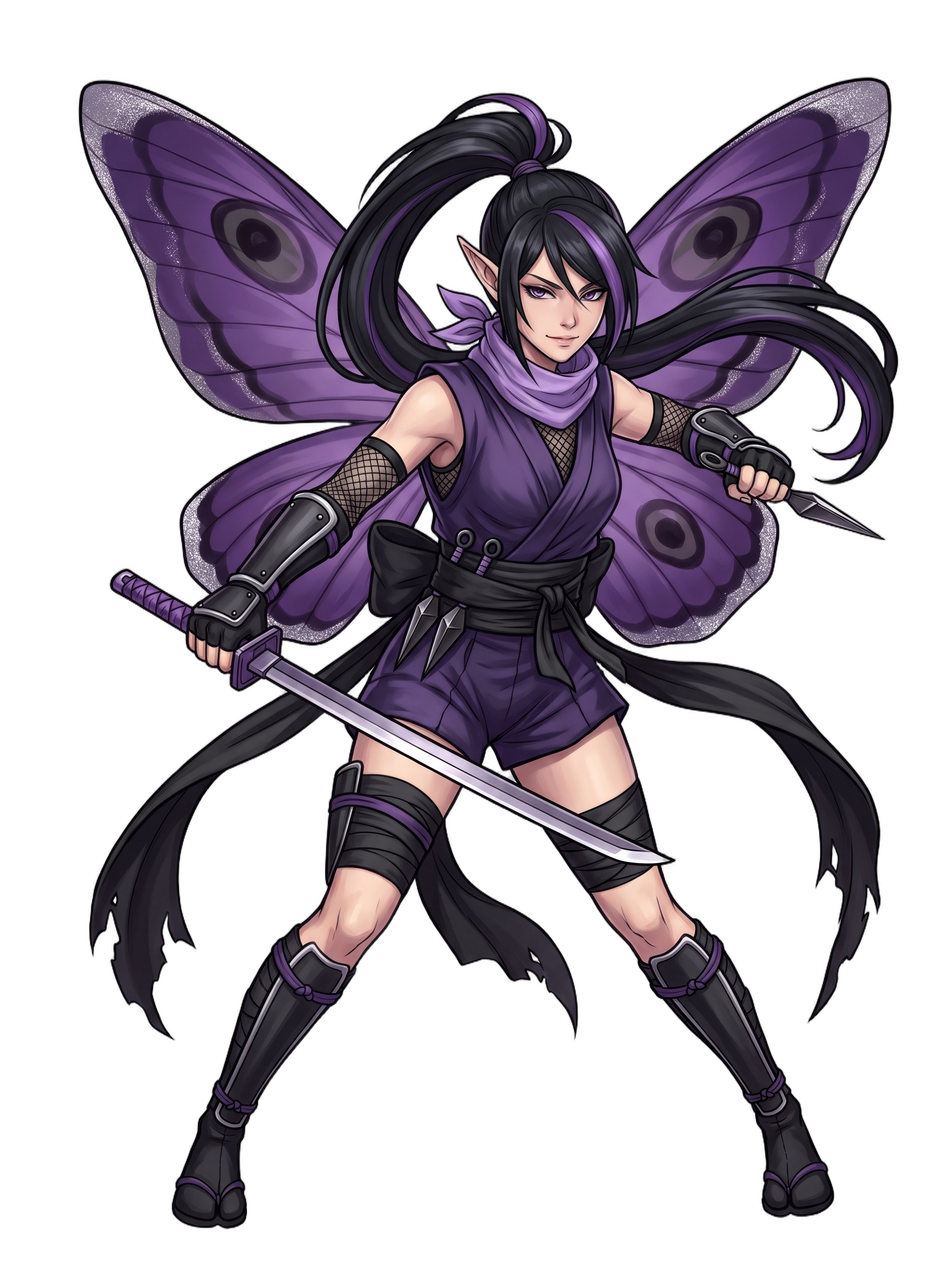
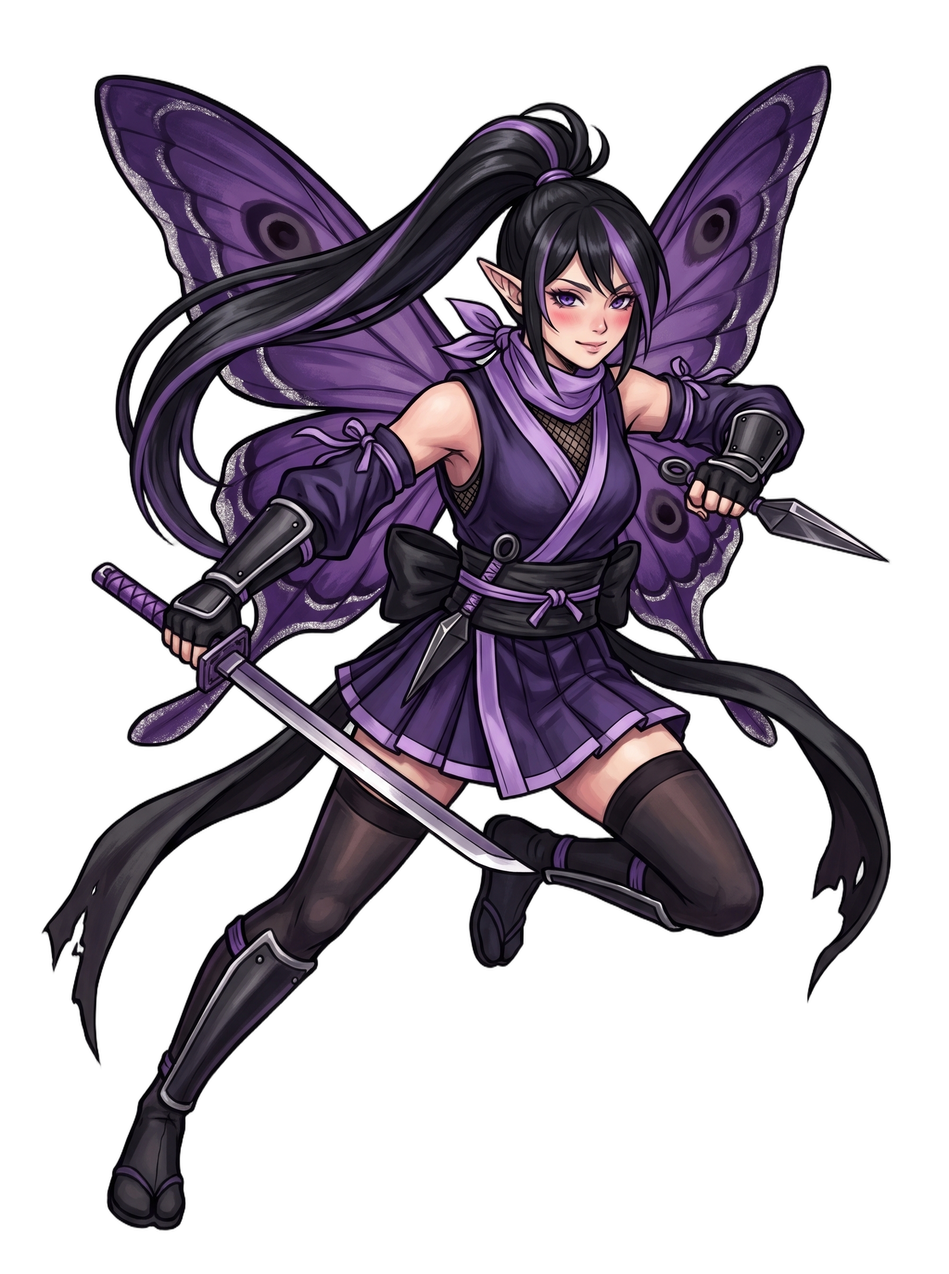
동료 FACE 블록·판타지 각색 도입 및 컷인 8종 확정
- 동료 매력 개선: 공통 FACE 블록(FACE_FEMALE/FACE_MALE) 신설, 원칙 1에 판타지 각색(가벼운 실루엣, 가챠 일러스트 수준 노출) 추가
- 비요른 제외 동료 블록 재작성, 카스미·에이다·록사나 컷인 재생성
- 시그리드를 남성 비요른(bjorn)으로 변경 (성비 8:3, 기획서 이름 반영)
- 아이아스를 20대 후반 장발 미남으로 변경
- 컷인 확정: 카스미, 에이다, 비요른, 록사나, 카밀라, 카탈리나, 아이아스, 에이린
- 카밀라 복장 테스트 이미지 및 화풍 가이드 검증 기록 추가

diff --git a/docs/art_prompts/partners.md b/docs/art_prompts/partners.md
@@ -10,25 +10,27 @@
 ## 1. 외형 컨셉 원칙
 
 1. **직업 + 문화권 복식 모티프:** 동료마다 판타지 직업 하나와 실제 역사·문화권의 복식 모티프 하나를 부여한다 (주인공 = 프랑스 경기병). 모티프는 두루뭉술하게 쓰지 않고 고유 복식·소품 명칭(오비, 카프탄, 코코시닉, 호플론 등)을 프롬프트에 직접 써서 컨셉을 극대화한다. 직업과 모티프는 서로 중복되지 않게 하며, 실제 신앙의 성물은 소품으로 쓰지 않는다.
+   - **판타지 각색 (2026-11-10 추가):** 복식을 고증대로 재현하지 않는다. 모티프는 한눈에 읽히는 대표 복식·소품 2~3개로만 살리고, 실루엣은 짧고 가볍게(바닥 길이 → 무릎 위, 어깨·팔 노출, 니삭스·오버니 부츠로 다리 라인), 소재는 비단·시폰·레이스 위주로 하며, 요정 포인트(꽃잎형 치맛단, 리본, 덩굴 장식 등)를 1~2개 넣는다. 노출 수위는 모바일 가챠 일러스트 수준(어깨, 팔, 허벅지)으로 한다. OUTFIT 첫 문장은 `Wearing a fantasy-adapted ... outfit:` 형태로 쓴다. 에이다(작고 앳된 체형)는 노출을 다른 동료보다 낮게 유지하고, 남성 동료는 노출을 늘리지 않는다.
 2. **스킬의 시각화:** 스킬 효과가 직업, 소품, 복장에서 바로 읽히도록 한다.
 3. **날개 종류 전원 상이:** 전투 화면은 3인 백뷰이므로 날개 형태와 머리/모자 실루엣만으로 식별 가능해야 한다.
 4. **등급 차등:** 5성은 4성보다 장식과 날개를 크고 화려하게 한다.
 5. **공통 요정 특징:** 전원 길고 뾰족한 요정 귀. 카밀라는 박쥐형 막날개를 가진 다른 요정 종족이다.
-6. **성비:** 캐릭터 수집형 게임 특성을 고려하여 여성 9 : 남성 2 (남성: 아이아스, 알렉세이).
+6. **성비:** 캐릭터 수집형 게임 특성을 고려하여 여성 8 : 남성 3 (남성: 비요른, 아이아스, 알렉세이).
 7. **망토 금지 (가이드 규칙 10):** 어깨/목에서 늘어지는 망토 대신 "등 처리" 칸의 방식으로 표현한다.
+8. **FACE 블록 (2026-11-10 추가):** 가챠 캐릭터의 매력을 위해 IDENTITY 뒤에 공통 FACE 블록(3장)을 넣어 애니풍의 앳된 미형 얼굴로 통일한다. 나이는 IDENTITY에 쓰며 여성 동료는 `a young adult in her early twenties`를 기본으로 한다. IDENTITY에는 `Sharp`, `narrow`, `aristocratic` 등 얼굴을 성숙하게 만드는 단어를 쓰지 않고, 성격은 표정으로만 표현한다. 장년 컨셉인 비요른은 FACE 블록을 적용하지 않는다. (아이아스는 장년 컨셉으로 시작했으나 2026-11-10 20대 후반 미남으로 변경하여 FACE_MALE 적용)
 
 ## 2. 동료 목록
 
 | 동료 (영문명) | 등급 | 색상 / 속성 | 성별 / 체형 | 직업 | 복식 모티프 | 스킬 연결 | 날개 | 등 처리 | 백뷰 식별 포인트 |
 |---|---|---|---|---|---|---|---|---|---|
-| 카스미 (`kasumi`) | 5성 | 보라 / 심연 | 여 / 날렵 | 그림자 암살자 | 일본 쿠노이치 | 즉사 = 암살, 첫 Miss 무효 = 그림자 회피 | 짙은 보라 나방 | 허리 뒤 긴 오비 띠 (찢어진 검은 천) | 보라 브릿지 긴 포니테일, 찢어진 오비 띠 |
+| 카스미 (`kasumi`) | 5성 | 보라 / 심연 | 여 / 날렵 | 그림자 암살자 | 일본 쿠노이치 | 즉사 = 암살, 첫 Miss 무효 = 그림자 회피 | 짙은 보라 나방 | 허리 뒤 긴 오비 띠 (찢어진 검은 천) | 보라 브릿지가 섞인 긴 포니테일, 찢어진 오비 띠 |
 | 에이다 (`ada`) | 5성 | 황금 / 시간 | 여 / 작고 앳됨 | 시간술사 | 빅토리아 시대 시계 장인 | 타이머 연장 = 모래시계 지팡이, 회중시계 | 톱니 문양 금빛 나비 | 연미복 자락, 버슬 스커트 | 양갈래 올림머리 + 황동 고글, 모래시계 지팡이 |
-| 시그리드 (`sigrid`) | 5성 | 진홍 / 화염 | 여 / 근육질 장신 | 화염 대장장이 | 노르드(바이킹) 대장장이 | 추가 피해 = 벼려낸 무기, 치명타 = 망치 일격 | 불씨 무늬 진홍 잠자리 | 없음 (앞치마 끈) | 굵게 땋은 붉은 머리, 털 깃, 어깨에 멘 거대 망치 |
+| 비요른 (`bjorn`) | 5성 | 진홍 / 화염 | 남 / 근육질 장신 | 화염 대장장이 | 노르드(바이킹) 대장장이 | 추가 피해 = 벼려낸 무기, 치명타 = 망치 일격 | 불씨 무늬 진홍 잠자리 | 털 조끼 (어깨~허리, 날개 뿌리 가림 여부는 백뷰 생성 시 확인) | 정수리를 따라 땋은 붉은 머리, 회색 털 조끼, 어깨에 멘 거대 망치 |
 | 록사나 (`roxana`) | 4성 | 분홍 / 관통 | 여 / 늘씬 | 가시장미 궁수 | 페르시아 궁수 | 관통 = 화살 | 장미 꽃잎형 나비 | 허리 장식끈, 옆트임 카프탄 자락 | 터번형 모자 + 높은 포니테일, 화살통 |
-| 카밀라 (`camilla`) | 4성 | 암적 / 흡혈 | 여 / 마른 장신 | 흡혈 귀족 | 동유럽 보야르 귀족 | 흡혈, 회복 = 크리스털 잔 | 검붉은 박쥐형 막날개 | 날개 망토 (막날개를 어깨에 두름) | 코코시닉 머리장식, 망토처럼 두른 막날개 |
+| 카밀라 (`camilla`) | 4성 | 암적 / 흡혈 | 여 / 마른 장신 | 흡혈 귀족 | 동유럽 보야르 귀족 | 흡혈, 회복 = 크리스털 잔 | 검붉은 박쥐형 막날개 | 없음 (막날개를 등 뒤로 크게 펼침) | 코코시닉 머리장식, 크게 펼친 막날개 |
 | 카탈리나 (`catalina`) | 4성 | 하늘 / 질풍 | 여 / 가벼움 | 바람 항해사 | 대항해시대 스페인 갈레온 항해사 | 판정 시간 = 순풍, 콤보 보존 = 아스트롤라베 | 길고 가는 하늘색 잠자리 | 스카프 | 깃털 꽂은 모리온 투구, 휘날리는 긴 스카프 |
-| 아이아스 (`aias`) | 4성 | 강철 / 수호 | 남 / 장년, 최대 거구 | 성기사 | 고대 그리스 호플리트 | 기절, 1회 생존 = 수호의 방패 | 강철색 딱정벌레 겉날개 | 프테루게스 (허리 아래 가죽 띠 치마) | 가로 볏 코린트식 투구, 거대 원형 방패 |
-| 에이린 (`eirin`) | 4성 | 녹색 / 치유 | 여 / 단정 | 치유 사제 | 켈트 드루이드 | 회복, 실드 = 약초와 잎사귀 지팡이 | 잎맥 녹색 날개 (나뭇잎벌레형) | 몸에 맞는 로브 | 겨우살이 화관 + 짧은 베일, 땋은 머리 |
+| 아이아스 (`aias`) | 4성 | 강철 / 수호 | 남 / 20대 후반 미남 근육질, 최대 거구 | 성기사 | 고대 그리스 호플리트 | 기절, 1회 생존 = 수호의 방패 | 강철색 딱정벌레 겉날개 | 프테루게스 (허리 아래 가죽 띠 치마) | 세로 볏 코린트식 투구 + 투구 아래로 내려오는 장발, 거대 원형 방패 |
+| 에이린 (`eirin`) | 4성 | 녹색 / 치유 | 여 / 단정 | 치유 사제 | 켈트 드루이드 | 회복, 실드 = 약초와 잎사귀 지팡이 | 잎맥 녹색 날개 (나뭇잎벌레형) | 시폰 소매, 잎사귀 모양 치맛단 | 겨우살이 화관 + 짧은 베일, 땋은 머리 |
 | 셰헤라자드 (`scheherazade`) | 4성 | 비취 / 충전 | 여 / 활발 | 음유시인 (무희) | 아랍 무희 | 피버 충전 = 춤과 심벌즈로 사기 고양 | 비취색 풀잠자리 | 머리띠 베일, 동전 허리 스카프 | 동전 머리띠 베일, 동전 허리 스카프, 하렘 팬츠 |
 | 알렉세이 (`aleksei`) | 4성 | 빙청 / 빙결 | 남 / 냉정한 청년 | 빙결 마법사 | 제정 러시아 궁정 마법사 | 결빙, 감속 = 얼음 마법 | 눈꽃 결정 무늬 나방 | 긴 코트 자락 | 원통형 털모자, 털 장식 긴 코트, 얼음 결정 지팡이 |
 | 다온 (`daon`) | 4성 | 무지개 / 공명 | 여 / 우아 | 프리즘 정령술사 | 한국 한복 선녀 | 동료 에너지 주입 = 정령의 힘 분배 | 무지갯빛 모르포 나비 | 팔에 걸친 비단 띠, 늘어진 옷고름 | 매우 긴 머리 + 화관, 색동 소매, 비단 띠, 주위를 도는 프리즘 결정 |
@@ -37,19 +39,32 @@
 
 ## 3. 프롬프트 블록
 
-블록 조합: `[LAYER_SPRITE_HEAD] + [VIEW] + [IDENTITY] + [OUTFIT] + [POSE] + [PALETTE] + [STYLE_BASE] + [LAYER_SPRITE_TAIL]`
+블록 조합: `[LAYER_SPRITE_HEAD] + [VIEW] + [IDENTITY] + [FACE] + [OUTFIT] + [POSE] + [PALETTE] + [STYLE_BASE] + [LAYER_SPRITE_TAIL]`
 - `cutin`: VIEW_ILLUST + POSE_CUTIN (첨부: `fairy_base.png`, 지시문: 화풍 참고)
 - `battle_back`: VIEW_BATTLE_BACK + POSE_BATTLE_BACK (첨부: 확정된 `cutin`, 지시문: 같은 캐릭터)
+- FACE는 캐릭터별 블록에 적힌 종류를 쓴다. 비요른은 FACE 없이 조합한다.
+
+**FACE_FEMALE** (여성 동료 공통)
+```
+Youthful beautiful face with cute Japanese anime-style features, large expressive eyes with long dark eyelashes, small nose, soft rounded jawline, smooth flawless skin with no wrinkles or harsh facial lines, rosy blushed cheeks, the same face rendering style as the attached image.
+```
+**FACE_MALE** (청년 남성 동료, 아이아스·알렉세이)
+```
+Handsome youthful face with Japanese anime-style bishonen features, refined expressive eyes with long dark eyelashes, straight slim nose, slim smooth jawline, smooth flawless skin with no wrinkles or harsh facial lines, the same face rendering style as the attached image.
+```
+- 2026-11-10 카밀라 테스트에서 FACE_FEMALE(당시 나이 문구 포함) 적용 시 얼굴이 크게 앳되고 매력적으로 개선됨을 확인. 나이는 캐릭터마다 다르므로 IDENTITY로 분리했다.
 
 ### 3.1 카스미 (`kasumi`) - 그림자 암살자 / 일본 쿠노이치
 
 **IDENTITY**
 ```
-A lean and agile young female fairy, 7 heads tall. Sharp beautiful features, cool narrow deep violet eyes, faint confident smirk, long pointed elf ears. Black hair with a single violet streak, tied in a long high ponytail. Four large deep violet moth wings with dark eyespot patterns and silver-dusted edges.
+A lean and agile female fairy, a young adult in her early twenties, 7 heads tall. Cool deep violet eyes, faint confident smile, long pointed elf ears. Black hair with several violet streaks through the bangs and ponytail, tied in a long high ponytail with a violet hair tie. Four large deep violet moth wings with dark eyespot patterns and silver-dusted edges.
 ```
+**FACE**: FACE_FEMALE
+
 **OUTFIT**
 ```
-Wearing a Japanese kunoichi (female ninja) outfit: a short dark violet kimono-style wrap top with sleeveless shoulders, fine black kusari chainmail mesh visible at the collar and upper arms, a black obi sash tied at the waist with a large bow knot at the back and long tattered black obi tails flowing down from the back of her waist, black tekko arm guards with silver plates over black fingerless gloves, a lavender face cloth mask pulled down around her neck and knotted at the side, dark violet short hakama-style shorts, black leg wraps with kyahan shin guards and black split-toe tabi boots, several kunai tucked into the obi. Weapons: a short straight ninjato with a violet-wrapped grip and a square guard, and a kunai. No cape or cloak on the shoulders, wings fully visible.
+Wearing a fantasy-adapted Japanese kunoichi (female ninja) outfit: a short sleeveless dark violet kimono-style wrap top with lavender trim, fine black kusari chainmail mesh visible at the collar edge, detached dark violet kimono sleeves tied with lavender ribbon bows at the upper arms and wrists, a black obi sash tied at the waist with a lavender cord knotted at the front, a large bow knot at the back and long tattered black obi tails flowing down from the back of her waist, a very short dark violet pleated hakama-style skirt with lavender trim, black tekko arm guards with silver plates over black fingerless gloves, a lavender face cloth mask pulled down around her neck and knotted at the side, black thigh-high stockings with knee-high black kyahan shin guards with silver plates and black split-toe tabi boots, several kunai tucked into the obi. Weapons: a short straight ninjato with a violet-wrapped grip and a square guard, and a kunai. No cape or cloak on the shoulders, wings fully visible.
 ```
 **PALETTE**
 ```
@@ -57,22 +72,24 @@ Color palette: deep violet, black, silver, lavender.
 ```
 **POSE_CUTIN**
 ```
-Pose: lunging forward low toward the viewer with the ninjato held in reverse grip slashing out, the other hand flicking a kunai, ponytail and long obi tail sweeping.
+Pose: lunging forward low toward the viewer with the ninjato held in a forward grip slashing out, the other hand flicking a kunai, ponytail and long obi tail sweeping.
 ```
 **POSE_BATTLE_BACK**
 ```
-Pose: crouched ready facing away from the viewer toward the enemy, ninjato in reverse grip, long black ponytail with violet streak, long tattered obi tail and violet moth wings with eyespots clearly visible.
+Pose: crouched ready facing away from the viewer toward the enemy, ninjato in hand, long black ponytail with violet streaks, long tattered obi tail and violet moth wings with eyespots clearly visible.
 ```
 
 ### 3.2 에이다 (`ada`) - 시간술사 / 빅토리아 시대 시계 장인
 
 **IDENTITY**
 ```
-A petite youthful girl fairy, 5 heads tall. Round curious golden eyes, cheerful confident smile, brass clockmaker goggles with amber tinted lenses pushed up on her forehead, long pointed elf ears. Honey-gold hair in two buns with short loose tails. Four golden butterfly wings with intricate clockwork gear filigree patterns, pale gold tinted.
+A petite youthful girl fairy, 5 heads tall. Round curious golden eyes, cheerful confident smile, brass clockmaker goggles with amber tinted lenses pushed up on her forehead, long pointed elf ears. Honey-gold hair in two buns with short loose tails. Four opaque metallic golden butterfly wings with intricate embossed clockwork gear filigree patterns, rich golden yellow.
 ```
+**FACE**: FACE_FEMALE
+
 **OUTFIT**
 ```
-Wearing a Victorian-era clockmaker outfit: a short midnight blue tailcoat jacket with brass gear-shaped buttons and gold star embroidery, coat tails at the back, a gold brocade waistcoat over a pale yellow high-collared blouse with a midnight blue ribbon bow tie, a brown leather tool apron with small pockets holding tiny screwdrivers and gears, a ruffled midnight blue bustle skirt, striped stockings and buckled brown boots. Props: a brass staff topped with a large ornate hourglass with golden sand encircled by brass orrery rings, and a brass pocket watch on a long gold chain at her waist. No cape or cloak on the shoulders, wings fully visible.
+Wearing a fantasy-adapted Victorian-era clockmaker outfit: a cropped midnight blue tailcoat jacket with short puffed sleeves, brass gear-shaped buttons, gold star embroidery on the lapels, coat tails at the back, detached midnight blue wrist cuffs with gold vine and star embroidery and gear-shaped buttons, a gold brocade waistcoat over a pale yellow high-collared blouse with a midnight blue ribbon bow tie, a small brown leather tool apron with a front pocket holding a tiny screwdriver, a wrench and small gears, a short ruffled midnight blue bustle skirt above the knees with a honey yellow lace petticoat, midnight blue and grey striped stockings and knee-high brown boots with triple side buckles and small gear ornaments. Props: a brass staff topped with a large ornate hourglass with golden sand encircled by brass orrery rings, an open brass pocket watch on a long gold chain, and a second brass pocket watch hanging from a chain at her waist. No cape or cloak on the shoulders, wings fully visible.
 ```
 **PALETTE**
 ```
@@ -87,15 +104,15 @@ Pose: floating in mid-air raising the hourglass staff high with one hand, holdin
 Pose: floating facing away from the viewer toward the enemy, hourglass staff held up, tailcoat tails and bustle skirt, hair buns with goggles and golden gear-patterned wings clearly visible.
 ```
 
-### 3.3 시그리드 (`sigrid`) - 화염 대장장이 / 노르드(바이킹) 대장장이
+### 3.3 비요른 (`bjorn`) - 화염 대장장이 / 노르드(바이킹) 대장장이
 
 **IDENTITY**
 ```
-A tall, muscular, broad-shouldered female fairy in her thirties, 7.5 heads tall. Confident soot-smudged face with freckles, a small scar on one cheek, bold grin, amber eyes, long pointed elf ears. Fiery red hair in a thick braid. Four large crimson dragonfly wings with ember orange spots.
+A tall, muscular, broad-shouldered male fairy in his thirties, 7.5 heads tall. Confident soot-smudged face with freckles, a small scar on one cheek, a full red beard with a long single braid hanging from the chin, bold grin, amber eyes, long pointed elf ears. Fiery red hair in a thick braid running along the top of his head to the back. Four large crimson dragonfly wings with ember orange spots.
 ```
 **OUTFIT**
 ```
-Wearing a Norse Viking blacksmith outfit: a sleeveless crimson wool tunic with woven knotwork trim, a thick grey wolf fur collar around her neck fastened with bronze oval brooches, a heavy dark brown leather blacksmith apron with brass rivets, bronze arm rings and leather bracers engraved with Norse runes, dark grey trousers with cross-wrapped leg bindings and fur-lined boots, a tool belt with tongs and chisels. Weapon: a huge two-handed forge hammer with a black iron head engraved with ember orange Norse runes. No cape or cloak on the shoulders, wings fully visible.
+Wearing a Norse Viking blacksmith outfit: a sleeveless crimson wool tunic with woven knotwork trim at the collar and hem, a thick sleeveless grey wolf fur vest over the shoulders reaching down to the waist, fastened at the chest with two bronze oval brooches, a heavy dark brown leather blacksmith apron with brass rivets and a riveted front pocket, a bronze knotwork arm ring on the upper arm and leather bracers engraved with Norse runes, baggy dark grey trousers with cross-wrapped leg bindings and fur-trimmed boots, a wide riveted leather tool belt with tongs and a chisel tucked into the apron pocket. Weapon: a huge two-handed forge hammer with a black iron head engraved with ember orange Norse runes. No cape or cloak on the shoulders, wings fully visible.
 ```
 **PALETTE**
 ```
@@ -107,18 +124,20 @@ Pose: swinging the huge forge hammer overhead in both hands, about to strike dow
 ```
 **POSE_BATTLE_BACK**
 ```
-Pose: standing ready facing away from the viewer toward the enemy, huge forge hammer resting on her shoulder, thick red braid, grey fur collar, apron straps crossing her back and crimson dragonfly wings clearly visible.
+Pose: standing ready facing away from the viewer toward the enemy, huge forge hammer resting on his shoulder, thick red braid along the top of his head, grey wolf fur vest and crimson dragonfly wings clearly visible.
 ```
 
 ### 3.4 록사나 (`roxana`) - 가시장미 궁수 / 페르시아 궁수
 
 **IDENTITY**
 ```
-A tall and elegant female fairy, 7 heads tall. Confident smile, rose pink eyes, long pointed elf ears. Long wavy rose pink hair in a high ponytail. Four layered rose-petal shaped butterfly wings in shades of pink and deep magenta.
+A tall and slender female fairy, a young adult in her early twenties, 7 heads tall. Confident smile, rose pink eyes, long pointed elf ears. Long wavy rose pink hair in a high ponytail. Four layered rose-petal shaped butterfly wings in shades of pink and deep magenta.
 ```
+**FACE**: FACE_FEMALE
+
 **OUTFIT**
 ```
-Wearing a Persian Safavid-era archer outfit: a fitted deep rose silk kaftan coat embroidered with gold rose garden and arabesque patterns, split at the sides below the waist, magenta salwar trousers tucked into tall pointed brown leather boots, a gold-trimmed magenta sash with long flowing ends tied at the waist, a small rose turban-style cap with a gold jewel and a pink feather wrapped around the base of her high ponytail, a carved archer's thumb ring and a leather bracer, an ornate gold-tooled leather quiver of rose-fletched arrows on her back. Weapon: a recurved composite bow lacquered deep rose with gold rose motifs and thorned vine carvings. No cape or cloak on the shoulders, wings fully visible.
+Wearing a fantasy-adapted Persian Safavid-era archer outfit: a fitted sleeveless deep rose silk kaftan bodice with a high stand collar, embroidered with gold rose garden and arabesque patterns, opening below the waist into long split kaftan panels at the sides and back with a rose-petal scalloped hem, short magenta silk shorts, tall pointed brown leather boots above the knees with V-cut tops, a gold-trimmed magenta sash with long flowing ends tied at the waist, a small rose turban-style cap with a gold jewel and a pink feather wrapped around the base of her high ponytail, a carved archer's thumb ring and leather bracers on both forearms with an extra gold arm cuff on the bow arm, an ornate gold-tooled leather quiver of rose-fletched arrows hanging at her left hip, and a matching gold-tooled leather bow case hanging at her right hip. Weapon: a recurved composite bow lacquered deep rose with gold rose motifs and thorned vine carvings. No cape or cloak on the shoulders, wings fully visible.
 ```
 **PALETTE**
 ```
@@ -126,22 +145,24 @@ Color palette: rose pink, deep magenta, gold, brown leather.
 ```
 **POSE_CUTIN**
 ```
-Pose: drawing the recurved bow at full draw aimed toward the viewer, one eye narrowed, ponytail and sash ends swinging.
+Pose: drawing the recurved bow at full draw aimed to the side, winking with one eye closed, ponytail and sash ends swinging.
 ```
 **POSE_BATTLE_BACK**
 ```
-Pose: standing facing away from the viewer toward the enemy, drawing the recurved bow, quiver on her back, turban-style cap with high ponytail, split kaftan hem and rose-petal wings clearly visible.
+Pose: standing facing away from the viewer toward the enemy, drawing the recurved bow, quiver at her hip, turban-style cap with high ponytail, split kaftan hem and rose-petal wings clearly visible.
 ```
 
 ### 3.5 카밀라 (`camilla`) - 흡혈 귀족 / 동유럽 보야르 귀족
 
 **IDENTITY**
 ```
-A slender, tall, pale aristocratic female fairy, 7.5 heads tall. Sharp elegant beauty, crimson eyes, sly smile showing small fangs, long pointed elf ears. Long straight black hair with dark red tips. Two large dark crimson bat-like membrane wings with delicate fairy-like ribs, opaque, draped around her shoulders like a high-collared cloak.
+A slender, tall, pale female fairy, a young adult in her early twenties, 7.5 heads tall. Crimson eyes, playful sly smile showing small fangs, long pointed elf ears. Long straight black hair with dark red streaks and tips. Two large dark crimson bat-like membrane wings with delicate fairy-like ribs, opaque, spread wide behind her.
 ```
+**FACE**: FACE_FEMALE
+
 **OUTFIT**
 ```
-Wearing an Eastern European boyar noblewoman outfit: a long dark blood red brocade coat dress with gold thread embroidery and a high stiff collar trimmed with black sable fur, long hanging false sleeves slit open at the elbow, a row of ruby and gold buttons down the front, a black silk under-dress, a tall jeweled kokoshnik headdress in black and gold set with rubies and hanging garnet bead strands, long black gloves and black riding boots. Props: a crystal goblet filled with dark red liquid and an ebony cane sword with a ruby pommel. No separate cape; only her bat wings are draped around her shoulders.
+Wearing a fantasy-adapted Eastern European boyar noblewoman outfit: an off-the-shoulder dark blood red silk mini dress with a fitted gold-embroidered brocade corset bodice, a row of ruby and gold buttons down the front, a black sable fur trim along the neckline, short red puffed sleeves under the fur trim, a short layered high-low skirt with a black lace underlayer and scalloped hem, detached long hanging sleeves of sheer black chiffon, a tall jeweled kokoshnik headdress in black and gold set with rubies and hanging garnet bead strands, a ruby drop pendant chain on her forehead, crimson painted nails, black thigh-high stockings with red ribbon garters and garter straps, black heeled ankle boots with gold trim. Props: a crystal goblet filled with dark red liquid and a long straight sword with a ruby-studded cross guard. No cape or cloak on the shoulders, wings fully visible.
 ```
 **PALETTE**
 ```
@@ -149,22 +170,24 @@ Color palette: blood red, black, gold, ruby.
 ```
 **POSE_CUTIN**
 ```
-Pose: raising the crystal goblet in an elegant toast toward the viewer with a sly smile, other hand drawing the cane sword halfway, bat wings draped around her shoulders.
+Pose: raising the crystal goblet in an elegant toast toward the viewer with a sly smile, other hand holding the long sword lowered at her side, bat wings spread wide behind her.
 ```
 **POSE_BATTLE_BACK**
 ```
-Pose: standing facing away from the viewer toward the enemy, cane sword in hand, tall kokoshnik headdress, long black hair, bat-like membrane wings spread wide from her shoulders clearly visible.
+Pose: standing facing away from the viewer toward the enemy, long sword in hand, tall kokoshnik headdress, long black hair, bat-like membrane wings spread wide from her shoulders clearly visible.
 ```
 
 ### 3.6 카탈리나 (`catalina`) - 바람 항해사 / 대항해시대 스페인 갈레온 항해사
 
 **IDENTITY**
 ```
-A slim and agile female fairy, 6.5 heads tall. Energetic grin, bright sky blue eyes, long pointed elf ears. Short tousled sky blue hair. Four long and narrow swift-shaped dragonfly wings, pale sky blue tinted.
+A slim and agile female fairy, a young adult in her early twenties, 6.5 heads tall. Energetic grin, bright sky blue eyes, long pointed elf ears. Short tousled sky blue hair. Four long and narrow swift-shaped dragonfly wings, very pale sky blue tinted and translucent, with fine geometric pale blue filigree veins.
 ```
+**FACE**: FACE_FEMALE
+
 **OUTFIT**
 ```
-Wearing a 16th-century Spanish galleon navigator outfit: a fitted sky blue doublet with slashed puffed sleeves showing navy lining, a pale sky blue tinted pleated ruff collar, a brown leather jerkin, navy puffed trunk hose over sky blue stockings and folded-top light brown leather boots, a polished steel morion helmet with a curved crest and a sky blue plume, a very long flowing scarf in sky blue and navy stripes tied at the neck. Props: a brass astrolabe on a chain and a brass spyglass. No cape or cloak on the shoulders, wings fully visible.
+Wearing a fantasy-adapted 16th-century Spanish galleon navigator outfit: a cropped fitted sky blue doublet with long slashed puffed sleeves showing navy lining and frilled cuffs, a small pale sky blue tinted pleated ruff collar, a brown leather corset-style jerkin, short navy puffed trunk hose shorts with sky blue slashes, sky blue thigh-high stockings and folded-top light brown leather boots, a polished steel morion helmet with a curved crest and a sky blue plume, a navy neckerchief knotted at the throat, a very long flowing scarf in sky blue and navy stripes streaming out to both sides. Props: a brass astrolabe on a chain and a brass spyglass. No cape or cloak on the shoulders, wings fully visible.
 ```
 **PALETTE**
 ```
@@ -172,7 +195,7 @@ Color palette: sky blue, navy, polished steel, brass, brown leather.
 ```
 **POSE_CUTIN**
 ```
-Pose: dashing forward through the air leaning into the wind, pointing ahead with the brass spyglass, holding the astrolabe in the other hand, long scarf streaming behind her.
+Pose: dashing forward through the air leaning into the wind, pointing ahead with her finger, holding the brass spyglass and the astrolabe on its chain in the other hand, long scarf streaming behind her.
 ```
 **POSE_BATTLE_BACK**
 ```
@@ -183,11 +206,13 @@ Pose: hovering facing away from the viewer toward the enemy, spyglass raised in 
 
 **IDENTITY**
 ```
-A very tall and massive middle-aged male fairy, 8 heads tall, the largest of the party. Stoic calm face, steel grey eyes, short grey beard, long pointed elf ears. Short grey hair. Wings: a pair of hard dark steel blue beetle elytra shells, partially open, with smaller smoke grey membrane wings beneath.
+A very tall, broad-shouldered and muscular handsome male fairy, a young man in his late twenties, 8 heads tall, the largest of the party. Calm dependable expression with a gentle confident smile, clean-shaven, steel grey eyes, long pointed elf ears. Long flowing dark ash brown hair falling from beneath his helmet down past his shoulders. Wings: a pair of hard dark steel blue beetle elytra shells, partially open, with smaller smoke grey membrane wings beneath.
 ```
+**FACE**: FACE_MALE
+
 **OUTFIT**
 ```
-Wearing ancient Greek hoplite armor: a polished steel muscled cuirass with brass trim over a dark blue linen chiton, a skirt of layered dark blue leather pteruges strips hanging from the waist to the knees, polished steel greaves on the shins and leather sandals, a polished steel Corinthian helmet with a tall dark blue horsehair transverse crest, pushed up on his head to show his face. Weapons: a huge round hoplon shield in polished steel with a raised brass rim and an embossed gold fairy crest, and a long spear with a steel tip. No cape or cloak on the shoulders, wings fully visible.
+Wearing ancient Greek hoplite armor: a polished steel muscled cuirass with brass trim over a dark blue linen chiton, a skirt of layered dark blue leather pteruges strips hanging from the waist to the knees, polished steel greaves on the shins and leather sandals, a polished steel Corinthian helmet worn down over his face with the eyes, nose and smiling mouth visible through the opening, topped with a tall dark blue horsehair crest running front to back, a dark blue cloth wrap and steel bracer on his spear arm. Weapons: a huge round hoplon shield in polished steel with a raised brass rim and an embossed gold fairy crest, and a long spear with a leaf-shaped steel tip and a pointed steel butt spike. No cape or cloak on the shoulders, wings fully visible.
 ```
 **PALETTE**
 ```
@@ -195,22 +220,24 @@ Color palette: steel grey, dark blue, brass, gold.
 ```
 **POSE_CUTIN**
 ```
-Pose: bracing the huge round shield forward toward the viewer in a firm defensive stance, spear held upright behind it, steady determined gaze over the shield rim.
+Pose: standing relaxed and confident facing the viewer, the huge round shield held at his side on one arm, the long spear held low and diagonal in the other hand, gentle smile.
 ```
 **POSE_BATTLE_BACK**
 ```
-Pose: standing firm facing away from the viewer toward the enemy, huge round shield raised on his arm, spear in the other hand, transverse-crested Corinthian helmet, pteruges skirt and beetle elytra wings clearly visible.
+Pose: standing firm facing away from the viewer toward the enemy, huge round shield raised on his arm, spear in the other hand, front-to-back crested Corinthian helmet with long dark ash brown hair flowing down his back, pteruges skirt and beetle elytra wings clearly visible.
 ```
 
 ### 3.8 에이린 (`eirin`) - 치유 사제 / 켈트 드루이드
 
 **IDENTITY**
 ```
-A gentle and calm female fairy, 7 heads tall. Soft kind smile, soft green eyes, long pointed elf ears. Long leaf green hair in a single braid. Four green leaf-insect wings with detailed leaf vein patterns.
+A gentle and calm female fairy, a young adult in her early twenties, 7 heads tall. Soft kind smile, soft green eyes, long pointed elf ears. Long leaf green hair in a single braid. Four green leaf-insect wings with detailed leaf vein patterns.
 ```
+**FACE**: FACE_FEMALE
+
 **OUTFIT**
 ```
-Wearing a Celtic druid priestess outfit: a long fitted deep forest green wool robe with woven gold Celtic knotwork borders, a crown of mistletoe with pale green berries and oak leaves woven into her hair with a short sage green veil hanging from it, a bronze torc necklace, a mint green woven belt with a small golden sickle and a brown leather herb satchel with small glass potion bottles. Prop: a gnarled oak staff topped with sprouting green leaves and mistletoe. No cape or cloak on the shoulders, wings fully visible.
+Wearing a fantasy-adapted Celtic druid priestess outfit: a fitted sleeveless deep forest green silk dress with a V-neckline and woven gold Celtic knotwork borders, a front-split overskirt panel with knotwork trim over a knee-length skirt with a layered leaf-shaped hem, sheer sage green chiffon sleeves draped loosely from gold upper arm bands, brown leather sandals laced up to the knees, a crown of mistletoe with pale green berries and oak leaves woven into her hair with a short sage green veil hanging from it, a bronze torc necklace, a mint green woven belt with a small golden sickle and a brown leather herb satchel with small glass potion bottles. Prop: a gnarled oak staff with a hooked curling top, sprouting green leaves and hanging mistletoe. No cape or cloak on the shoulders, wings fully visible.
 ```
 **PALETTE**
 ```
@@ -229,11 +256,13 @@ Pose: standing facing away from the viewer toward the enemy, oak staff held upri
 
 **IDENTITY**
 ```
-A lively and mischievous female fairy, 6 heads tall. Big playful grin, jade green eyes, freckles, long pointed elf ears. Jade green bob haircut with straight bangs. Four jade tinted lacewing wings with fine net-like veins.
+A lively and mischievous female fairy, a young adult in her early twenties, 6 heads tall. Big playful grin, jade green eyes, light freckles, long pointed elf ears. Jade green bob haircut with straight bangs. Four jade tinted lacewing wings with fine net-like veins.
 ```
+**FACE**: FACE_FEMALE
+
 **OUTFIT**
 ```
-Wearing an Arabian dancer outfit: a jade green cropped bolero top with gold embroidery, a gold coin headband with a semi-opaque jade green silk veil draped over the back of her hair, a jade green hip scarf belt lined with rows of small gold coins and tassels, flowing jade green harem pants gathered at the ankles, gold arm cuffs and gold anklets with tiny bells, soft pointed gold slippers. Props: gold finger cymbals on both hands and a long jade green silk dance scarf. No cape or cloak on the shoulders, wings fully visible.
+Wearing a fantasy-adapted Arabian dancer outfit: a jade green cropped bolero top with gold embroidery and a bare midriff, a gold coin headband with a semi-opaque jade green silk veil draped over the back of her hair, a jade green hip scarf belt lined with rows of small gold coins and tassels, flowing semi-sheer jade green chiffon harem pants with side slits, gathered at the ankles, gold arm cuffs and gold anklets with tiny bells, soft pointed gold slippers. Props: gold finger cymbals on both hands and a long jade green silk dance scarf. No cape or cloak on the shoulders, wings fully visible.
 ```
 **PALETTE**
 ```
@@ -252,8 +281,10 @@ Pose: hovering facing away from the viewer toward the enemy, arms raised with fi
 
 **IDENTITY**
 ```
-A cool and aloof young male fairy, 7 heads tall. Calm expressionless face, ice blue eyes, long pointed elf ears. Messy frosty pale blue hair. Four moth wings with snowflake crystal patterns, pale ice blue tinted.
+A cool and aloof male fairy, a young man in his early twenties, 7 heads tall. Calm composed expression, ice blue eyes, long pointed elf ears. Messy frosty pale blue hair. Four moth wings with snowflake crystal patterns, pale ice blue tinted.
 ```
+**FACE**: FACE_MALE
+
 **OUTFIT**
 ```
 Wearing an Imperial Russian court mage outfit: a long fitted ice blue greatcoat with a double row of silver buttons, silver frog closures and silver snowflake embroidery, a wide dark navy fur collar with fur-trimmed cuffs and hem, long coat skirts at the back, a tall cylindrical dark navy fur hat with a silver snowflake badge, a dark navy sash belt, dark navy gloves and tall polished black boots. Prop: a tall staff of pale blue ice crystal with a sharp crystal cluster at the top. No cape or cloak on the shoulders, wings fully visible.
@@ -275,11 +306,13 @@ Pose: standing facing away from the viewer toward the enemy, ice crystal staff r
 
 **IDENTITY**
 ```
-A graceful and serene female fairy, 7 heads tall. Gentle calm expression, iridescent violet blue eyes, long pointed elf ears. Very long flowing pastel lavender hair with iridescent highlights. Four large morpho butterfly wings with an iridescent blue sheen shifting into rainbow hues at the edges.
+A graceful and serene female fairy, a young adult in her early twenties, 7 heads tall. Gentle calm expression, iridescent violet blue eyes, long pointed elf ears. Very long flowing pastel lavender hair with iridescent highlights. Four large morpho butterfly wings with an iridescent blue sheen shifting into rainbow hues at the edges.
 ```
+**FACE**: FACE_FEMALE
+
 **OUTFIT**
 ```
-Wearing an elegant traditional Korean hanbok celestial maiden (seonnyeo) outfit: a short lavender blue jeogori jacket with saekdong rainbow-striped sleeves and gold-stamped geumbak patterns, tied at the chest with a long deep violet otgoreum ribbon, a voluminous high-waisted long chima skirt in soft gradient rainbow hues, a norigae tassel ornament with a jade piece and a small prism crystal hanging from the waist, a long iridescent lavender silk ribbon draped over her forearms and floating around her body below the shoulders, an ornate gold hwagwan floral crown set with a prism crystal and gold tteoljam trembling hairpins. Props: several small faceted prism crystals in rainbow colors floating in a circle around her. No cape or cloak on the shoulders, wings fully visible.
+Wearing a fantasy-adapted Korean hanbok celestial maiden (seonnyeo) outfit: a short off-the-shoulder lavender blue jeogori jacket with wide saekdong rainbow-striped sleeves and gold-stamped geumbak patterns, tied at the chest with a long deep violet otgoreum ribbon, a high-waisted chima skirt cut at knee length in front and flowing long at the back, in soft gradient rainbow hues with a sheer lavender chiffon overlayer, soft violet embroidered kkotsin flower shoes, a norigae tassel ornament with a jade piece and a small prism crystal hanging from the waist, a long iridescent lavender silk ribbon draped over her forearms and floating around her body below the shoulders, an ornate gold hwagwan floral crown set with a prism crystal and gold tteoljam trembling hairpins. Props: several small faceted prism crystals in rainbow colors floating in a circle around her. No cape or cloak on the shoulders, wings fully visible.
 ```
 **PALETTE**
 ```
@@ -303,13 +336,13 @@ Pose: floating facing away from the viewer toward the enemy, arms spread with pr
 | 동료 | `cutin_[영문명].png` (VIEW_ILLUST) | `battle_back_[영문명].png` (VIEW_BATTLE_BACK) |
 |---|---|---|
 | 카스미 | 확정 | 미생성 |
-| 에이다 | 미생성 | 미생성 |
-| 시그리드 | 미생성 | 미생성 |
-| 록사나 | 미생성 | 미생성 |
-| 카밀라 | 미생성 | 미생성 |
-| 카탈리나 | 미생성 | 미생성 |
-| 아이아스 | 미생성 | 미생성 |
-| 에이린 | 미생성 | 미생성 |
+| 에이다 | 확정 | 미생성 |
+| 비요른 | 확정 | 미생성 |
+| 록사나 | 확정 | 미생성 |
+| 카밀라 | 확정 | 미생성 |
+| 카탈리나 | 확정 | 미생성 |
+| 아이아스 | 확정 | 미생성 |
+| 에이린 | 확정 | 미생성 |
 | 셰헤라자드 | 미생성 | 미생성 |
 | 알렉세이 | 미생성 | 미생성 |
 | 다온 | 미생성 | 미생성 |
@@ -320,3 +353,18 @@ Pose: floating facing away from the viewer toward the enemy, arms spread with pr
 - 2026-11-04 동료 11인 복식 모티프 재설정 (원칙 1 변경). 카엘이 서양식 암살자 가죽 갑옷에서 일본 쿠노이치로 바뀌어 `cutin_kael.png`(2차)는 폐기하고, 새 OUTFIT과 `fairy_base.png` v4로 재생성한다. 파일은 재생성 시 덮어쓴다.
 - 2026-11-04 동료 이름을 복식 모티프에 맞게 변경 (위 기록의 이름은 당시 이름 그대로 둠): 카엘(`kael`)→카스미(`kasumi`), 루미(`lumi`)→에이다(`ada`), 베른(`bern`)→시그리드(`sigrid`), 로제(`rose`)→록사나(`roxana`), 카밀라(`camilla`) 유지, 시안(`cyan`)→카탈리나(`catalina`), 바란(`baran`)→아이아스(`aias`), 미라(`mira`)→에이린(`eirin`), 제이드(`jade`)→셰헤라자드(`scheherazade`), 레온(`leon`)→알렉세이(`aleksei`), 아이리스(`iris`)→다온(`daon`). 다온의 모티프는 중국 한푸 선녀에서 한국 한복 선녀로 변경. 기존 `cutin_kael.png`는 `cutin_kasumi.png` 생성 시 삭제한다.
 - 2026-11-04 `cutin_kasumi.png` 확정: 첨부 `assets/characters/fairy/fairy_base.png`(v4) + 지시문 `Match the art style of the attached image (a different character).` + LAYER_SPRITE_HEAD + VIEW_ILLUST + 카스미 IDENTITY + OUTFIT + POSE_CUTIN + PALETTE + STYLE_BASE + LAYER_SPRITE_TAIL. 결과에서 오비 뒤 큰 리본 매듭, 손가락 없는 장갑, 옆으로 묶은 목 천이 임의 생성되어 OUTFIT에 고정함 (생성 당시 OUTFIT에는 해당 문구 없음). 사슬 갑옷은 그물형 망사로, 포즈는 돌진 대신 넓게 선 자세·정방향 파지로 생성됨. 선이 기준 이미지보다 가늘고 붓 터치가 약하나 재생성해도 개선되지 않아 채택. 기존 `cutin_kael.png` 삭제.
+- 2026-11-10 `cutin_ada.png` 확정 (1차): 첨부 `assets/characters/fairy/fairy_base.png`(v4) + 지시문 `Match the art style of the attached image (a different character).` + LAYER_SPRITE_HEAD + VIEW_ILLUST + 에이다 IDENTITY + OUTFIT + POSE_CUTIN + PALETTE + STYLE_BASE + LAYER_SPRITE_TAIL. 결과에서 허리 체인의 두 번째 회중시계, 앞치마 주머니의 렌치·드라이버·톱니, 톱니 모양 소매 단추와 소매 별 자수, 부츠의 이중 버클과 톱니 장식, 남색·회색 줄무늬 스타킹이 임의 생성되어 OUTFIT에 고정함 (생성 당시 OUTFIT에는 해당 문구 없음). 양갈래 올림머리는 꼬리 대신 잔머리가 흘러내리는 형태로, 날개는 금빛보다 아이보리에 가까운 연금색으로 생성됨. 등신은 5~6등신.
+- 2026-11-10 시그리드(`sigrid`)를 남성 비요른(`bjorn`)으로 변경. 여성 버전은 체형이 지나치게 듬직하고, 여성스러움을 강조한 안도 컨셉과 맞지 않아 폐기. 30대 근육질 장신 체형은 유지하고 IDENTITY에 짧게 다듬은 붉은 수염 추가. 성비는 여성 8 : 남성 3으로 변경 (원칙 6).
+- 2026-11-10 `cutin_bjorn.png` 확정 (1차): 첨부 `assets/characters/fairy/fairy_base.png`(v4) + 지시문 `Match the art style of the attached image (a different character).` + LAYER_SPRITE_HEAD + VIEW_ILLUST + 비요른 IDENTITY + OUTFIT + POSE_CUTIN + PALETTE + STYLE_BASE + LAYER_SPRITE_TAIL. 생성 당시 IDENTITY는 `a short trimmed red beard`, `Fiery red hair in a thick braid.`였고 OUTFIT은 `a thick grey wolf fur collar around his neck fastened with bronze oval brooches`였으나, 결과에서 턱에서 길게 땋아 내린 수염, 정수리를 따라 뒤로 땋은 머리, 어깨를 덮고 허리까지 내려오는 털 조끼가 생성되어 IDENTITY/OUTFIT을 결과에 맞게 수정함. 함께 생성된 튜닉 목·밑단 매듭 문양, 앞치마 리벳 주머니(집게·끌), 위팔 청동 팔찌, 넓은 리벳 벨트, 통 넓은 바지, 털 장식 부츠도 고정. 털 조끼가 어깨를 덮어 가이드 규칙 10 위반 소지가 있으나 사용자 판단으로 채택, 백뷰 생성 시 날개 뿌리 가림 여부를 확인한다. 날개는 잠자리형보다 끝이 둥근 형태로 생성됨.
+- 2026-11-10 `cutin_roxana.png` 확정 (1차): 첨부 `assets/characters/fairy/fairy_base.png`(v4) + 지시문 `Match the art style of the attached image (a different character).` + LAYER_SPRITE_HEAD + VIEW_ILLUST + 록사나 IDENTITY + OUTFIT + POSE_CUTIN + PALETTE + STYLE_BASE + LAYER_SPRITE_TAIL. 생성 당시 OUTFIT은 `a leather bracer`, `quiver ... on her back`이었으나, 결과에서 양팔 팔 보호대, 왼쪽 허리 화살통, 오른쪽 허리의 같은 금박 가죽 활집이 생성되어 OUTFIT과 POSE_BATTLE_BACK(화살통 위치)을 수정함. 포즈는 정면 조준 대신 화면 옆쪽 조준, 한쪽 눈은 가늘게 뜨는 대신 윙크로 생성됨. 날개는 장미 꽃잎형보다 일반 나비형에 가까운 분홍·마젠타 겹날개로 생성됨.
+- 2026-11-10 `cutin_camilla.png` 1차 생성 (미채택): 기존 블록으로 생성. 날개 망토가 반영되지 않고 막날개가 등 뒤로 펼쳐졌으며, 지팡이 칼 대신 손잡이 보호대가 달린 세이버가 생성됨. 이 시점에 사용자가 동료들이 가챠 캐릭터로서 매력이 부족하고 나이 들어 보인다고 판단하여 재작성 테스트 진행.
+- 2026-11-10 카밀라 테스트 2건: (1) 얼굴 테스트 — IDENTITY에서 `Sharp elegant beauty`, `aristocratic` 제거 + FACE 블록(당시 `appearing in her late teens to early twenties` 포함) 추가. 얼굴이 크게 개선됨을 사용자가 Gemini 화면에서 확인 (파일은 다운로드하지 않음). (2) `assets/test/cutin_camilla_outfit_test.png` — FACE 블록 나이를 `a young adult in her early twenties`로 변경 + 판타지 각색 OUTFIT(오프숄더 미니 드레스, 레이스 덧치마, 시폰 분리 소매, 니삭스·가터, 앵클부츠). 사용자 채택. 결과에서 날개는 이번에도 등 뒤로 펼쳐졌고 소품은 루비 십자 장검으로, 이마 루비 장식줄·퍼프 소매·붉은 손톱·가터벨트 끈·금장식 하이힐 앵클부츠·하이로우 치마가 임의 생성되어 카밀라 블록에 고정함. 날개 망토는 2회 연속 반영되지 않아 펼친 날개로 변경.
+- 2026-11-10 원칙 1 판타지 각색, 원칙 8 FACE 블록 추가에 따라 비요른·아이아스를 제외한 동료 블록 재작성. 여성 8인 IDENTITY에 나이(`a young adult in her early twenties`, 에이다는 기존 `petite youthful girl` 유지) 추가·성숙 인상 단어 제거, OUTFIT 판타지 각색. 알렉세이는 FACE_MALE 적용, 복장 유지. 에이다 날개는 1차 결과가 아이보리에 가까워 `pale gold tinted` → `rich golden yellow tinted`로 변경. 확정했던 `cutin_kasumi.png`, `cutin_ada.png`, `cutin_roxana.png`는 체크리스트를 `미생성`으로 되돌리고 재생성 시 덮어쓴다 (위 확정 기록은 이력으로 유지).
+- 2026-11-10 `cutin_camilla.png` 확정: `assets/test/cutin_camilla_outfit_test.png`(카밀라 테스트 2)를 그대로 채택하여 복사 (1차 생성본 덮어씀). 생성 프롬프트는 현재 블록 조합과 같되, 당시 IDENTITY는 `Long straight black hair with dark red tips`, 날개 `draped around her shoulders like a high-collared cloak`, FACE에 `a young adult in her early twenties` 포함, OUTFIT은 위 테스트 2 기록의 각색안(임의 디테일 고정 전)이었다. POSE_CUTIN은 `other hand drawing the cane sword halfway, bat wings draped around her shoulders`였다.
+- 2026-11-10 `cutin_kasumi.png` 확정 (재작성 블록 1차, 기존 파일 덮어씀): 첨부 `assets/characters/fairy/fairy_base.png`(v4) + 지시문 `Match the art style of the attached image (a different character).` + LAYER_SPRITE_HEAD + VIEW_ILLUST + 카스미 IDENTITY + FACE_FEMALE + OUTFIT + POSE_CUTIN + PALETTE + STYLE_BASE + LAYER_SPRITE_TAIL. 결과에서 앞머리·포니테일의 여러 줄 보라 브릿지와 보라 머리끈, 분리 소매의 라벤더 리본 매듭, 오비 앞의 라벤더 끈, 무릎까지 오는 은판 각반이 임의 생성되어 IDENTITY/OUTFIT에 고정함. 닌자도는 역수 대신 정방향 파지로 생성됨(이전 카스미 컷인과 동일) → POSE_CUTIN/POSE_BATTLE_BACK을 정방향 파지로 수정.
+- 2026-11-10 `cutin_ada.png` 확정 (재작성 블록 1차, 기존 파일 덮어씀): 첨부 `assets/characters/fairy/fairy_base.png`(v4) + 지시문 `Match the art style of the attached image (a different character).` + LAYER_SPRITE_HEAD + VIEW_ILLUST + 에이다 IDENTITY + FACE_FEMALE + OUTFIT + POSE_CUTIN + PALETTE + STYLE_BASE + LAYER_SPRITE_TAIL. 날개가 진한 금빛으로 개선됨. 결과에서 불투명한 금속 질감 날개, 손목 커프스의 금색 덩굴 자수, 부츠 버클 3줄이 생성되어 IDENTITY/OUTFIT에 고정함 (생성 당시 날개 `golden butterfly wings ... rich golden yellow tinted`, 커프스 `gold star embroidery`, 부츠 `double side buckles`). 양갈래 올림머리 아래 짧은 꼬리는 프롬프트대로 생성됨. 연미복 뒷자락은 정면 각도라 확인 불가, 백뷰 생성 시 확인.
+- 2026-11-10 `cutin_roxana.png` 확정 (재작성 블록 1차, 기존 파일 덮어씀): 첨부 `assets/characters/fairy/fairy_base.png`(v4) + 지시문 `Match the art style of the attached image (a different character).` + LAYER_SPRITE_HEAD + VIEW_ILLUST + 록사나 IDENTITY + FACE_FEMALE + OUTFIT + POSE_CUTIN + PALETTE + STYLE_BASE + LAYER_SPRITE_TAIL. 결과에서 카프탄 상의의 높은 스탠드 칼라, 활 쥔 팔의 금색 팔찌, 부츠 윗단 V자 컷이 임의 생성되어 OUTFIT에 고정함. 정면 조준·한쪽 눈 가늘게 뜨기 대신 옆쪽 조준·윙크로 생성됨(이전 록사나 컷인과 동일) → POSE_CUTIN을 결과에 맞게 수정. 장미 꽃잎형 카프탄 밑단은 프롬프트대로 생성됨.
+- 2026-11-10 `cutin_catalina.png` 확정 (1차): 첨부 `assets/characters/fairy/fairy_base.png`(v4) + 지시문 `Match the art style of the attached image (a different character).` + LAYER_SPRITE_HEAD + VIEW_ILLUST + 카탈리나 IDENTITY + FACE_FEMALE + OUTFIT + POSE_CUTIN + PALETTE + STYLE_BASE + LAYER_SPRITE_TAIL. 날개가 첨부한 주인공 날개를 따라 매우 연한 색에 기하학적 선 무늬로 생성됨 — 원칙 3(날개 전원 상이)과 충돌하나 사용자 판단으로 채택하고 IDENTITY를 결과에 맞게 수정 (생성 당시 `pale sky blue tinted`만 지정). 결과에서 긴 퍼프 소매와 프릴 커프스, 남색 목 스카프 매듭, 트렁크 호즈의 하늘색 트임이 생성되어 OUTFIT에 고정함 (생성 당시 `short slashed puffed sleeves`). 망원경 대신 손가락으로 가리키는 포즈로 생성되어 POSE_CUTIN 수정.
+- 2026-11-10 아이아스를 장년(a안)에서 20대 후반 미남 근육질(b안)로 변경. 장년 블록으로 생성한 컷인을 사용자가 보자마자 부적합 판단 (파일 미저장). IDENTITY를 `a young man in his late twenties`, 깔끔하게 면도한 얼굴, 짙은 애쉬 브라운 머리(같은 날 사용자 요청으로 투구 아래로 어깨 너머까지 내려오는 장발로 변경), 온화하고 자신감 있는 미소로 수정하고 FACE_MALE 적용. 8등신 최대 거구는 유지.
+- 2026-11-10 `cutin_aias.png` 확정 (b안 1차): 첨부 `assets/characters/fairy/fairy_base.png`(v4) + 지시문 `Match the art style of the attached image (a different character).` + LAYER_SPRITE_HEAD + VIEW_ILLUST + 아이아스 IDENTITY + FACE_MALE + OUTFIT + POSE_CUTIN + PALETTE + STYLE_BASE + LAYER_SPRITE_TAIL. 투구 아래 장발, 젊은 미소 얼굴, 딱정벌레 겉날개는 프롬프트대로 생성됨. 생성 당시 OUTFIT은 `transverse crest, pushed up on his head to show his face`, POSE_CUTIN은 방패를 앞으로 내민 방어 자세였으나, 결과에서 얼굴을 덮어 쓴 투구, 앞뒤 방향 세로 볏, 방패를 옆에 든 편한 자세가 생성되어 OUTFIT·POSE_CUTIN·POSE_BATTLE_BACK과 동료 표를 결과에 맞게 수정함. 창 아래쪽 뾰족한 날, 창 든 팔의 남색 천과 팔 보호대도 고정. 체격은 "최대 거구"보다 날씬하게 생성됨.
+- 2026-11-11 `cutin_eirin.png` 확정 (1차): 첨부 `assets/characters/fairy/fairy_base.png`(v4) + 지시문 `Match the art style of the attached image (a different character).` + LAYER_SPRITE_HEAD + VIEW_ILLUST + 에이린 IDENTITY + FACE_FEMALE + OUTFIT + POSE_CUTIN + PALETTE + STYLE_BASE + LAYER_SPRITE_TAIL. 거의 프롬프트대로 생성됨. 결과에서 시폰 소매를 고정하는 금색 위팔 띠, V넥 켈트 테두리와 앞트임 덧치마, 윗부분이 갈고리처럼 휜 지팡이가 생성되어 OUTFIT에 고정함. 땋은 머리가 어깨 앞으로 넘어와 있어 백뷰 생성 시 등 뒤로 오도록 지정할 것.

diff --git a/docs/art_style_guide.md b/docs/art_style_guide.md
@@ -9,8 +9,9 @@
 
 ### 1.1 캐릭터/몬스터 스프라이트 (`--rembg` 사용)
 ```
-[LAYER_SPRITE_HEAD] + [VIEW] + [캐릭터 IDENTITY] + [캐릭터 OUTFIT] + [POSE] + [PALETTE] + [STYLE_BASE] + [LAYER_SPRITE_TAIL]
+[LAYER_SPRITE_HEAD] + [VIEW] + [캐릭터 IDENTITY] + [FACE] + [캐릭터 OUTFIT] + [POSE] + [PALETTE] + [STYLE_BASE] + [LAYER_SPRITE_TAIL]
 ```
+- `[FACE]`는 동료 캐릭터 시트(`docs/art_prompts/partners.md` 3장)의 FACE 블록을 쓴다. 주인공은 IDENTITY에 얼굴 묘사가 포함되어 있고, 몬스터/보스와 장년 컨셉 동료는 생략한다.
 
 ### 1.2 배경 (`--rembg` 미사용)
 ```
@@ -114,7 +115,7 @@ Subtle canvas and aged paper grain texture.
 9. **모션은 단일 대표 자세로 생성:** 프로토타입은 모션당 이미지 1장 + Canvas 절차적 모션으로 구현한다(기획서 1.3). 프레임 연속 이미지를 만들지 않고, 정지 상태에서도 동작이 한눈에 읽히는 대표 자세 1장으로 생성한다.
 10. **날개 캐릭터 망토 금지:** 날개가 있는 캐릭터(주인공, 동료 등)는 어깨나 목에서 늘어져 등 위쪽(날개 뿌리)을 덮는 망토/클로크/케이프를 착용하지 않는다. 날개 뿌리와 겹쳐 설정상 어색하고, 백뷰에서 날개와 망토가 서로를 가려 식별성이 떨어진다.
    - 휘날리는 천이 필요하면 대체 수단을 쓴다: 허리 반망토(허리 뒤에서 흘러내리는 천), 코트 자락, 스카프/리본/장식끈, 몸에 맞는 로브.
-   - 망토 같은 실루엣이 필요한 컨셉은 별도 망토 대신 **날개로 표현**한다 (예: 카밀라의 박쥐 막날개를 어깨에 망토처럼 두름). 불투명한 막날개처럼 천으로 읽힐 수 있는 날개에만 사용한다.
+   - 망토 같은 실루엣이 필요한 컨셉은 별도 망토 대신 **날개로 표현**한다 (예: 카밀라의 박쥐 막날개를 어깨에 망토처럼 두름). 불투명한 막날개처럼 천으로 읽힐 수 있는 날개에만 사용한다. 단, 2026-11-10 카밀라 생성에서 "날개를 어깨에 망토처럼 두름" 지시가 2회 연속 반영되지 않고 날개가 등 뒤로 펼쳐졌다. 생성 모델이 잘 따르지 않는 지시이므로 기대하지 않는다.
    - 날개 캐릭터의 OUTFIT 블록 끝에는 `No cape or cloak on the shoulders, wings fully visible.`를 포함한다.
    - 캐릭터 시트의 "등 처리" 칸에 캐릭터별 처리 방식을 명시하고, 프롬프트 작성 후 `cape`/`cloak` 키워드를 검색해 허용된 표현(허리 반망토, 날개 망토, 금지 문장) 외에 남아 있지 않은지 확인한다.
    - 날개가 없는 몬스터/보스에는 적용하지 않는다.
@@ -135,5 +136,7 @@ Subtle canvas and aged paper grain texture.
 | 2026-11-04 | `assets/test/fairy_base_anime_A_test.png` | 일본 애니풍(모바일 가챠 일러스트) 화풍 전환 시도, `fairy_base.png` 첨부. 원본과 거의 동일하고 얼굴 인상만 약간 부드러워짐 → 규칙 11 보강 |
 | 2026-11-04 | `assets/test/fairy_base_anime_A2/B/C/D_test.png` | 첨부 없이 텍스트만으로 애니풍 4종(가챠 일러스트 / TV 셀화 / 90년대 셀화 / 厚塗り) 생성. 화풍은 바뀌나 작가명 없는 묘사는 일반적인 그림체로 수렴하여 미채택. 디자인은 텍스트 블록만으로 대부분 유지, 단 D안은 등신이 낮아짐 |
 | 2026-11-04 | `assets/test/fairy_base_softface_3d_test.png`, `_v2_test.png` | 첨부 + "얼굴 선 약화, 몸 그림자 강화" 지시. v2는 광원 방향까지 지정. 얼굴은 약간 부드러워졌으나 그림자 변화 없음 → 규칙 11 보강. `fairy_base_softface_3d_test.png`를 기준 이미지 v4로 채택 |
+| 2026-11-10 | (카밀라 얼굴 테스트, 파일 미저장) | 동료가 나이 들어 보이는 원인을 STYLE_BASE가 아닌 IDENTITY 얼굴 묘사로 판단(주인공은 같은 STYLE로 합격). 성숙 인상 단어 제거 + 애니풍 FACE 블록 추가로 얼굴이 크게 개선됨 → 동료 FACE 블록 신설 |
+| 2026-11-10 | `assets/test/cutin_camilla_outfit_test.png` | FACE 블록 + 판타지 각색 OUTFIT(오프숄더 미니 드레스, 니삭스 등). 요정다운 가벼운 복장으로 개선되어 채택 → 동료 원칙 1에 판타지 각색 추가. 날개 망토 지시는 미반영 |
 
 ※ 위 테스트 이미지는 2026-11-03 정리 시 `assets/test/`에서 삭제되었다. `fairy_base_sprite_test.png`, `lobby_fairy_idle_A_test.png`는 커밋 `cd7268e`에서 확인할 수 있으며, 나머지는 커밋되지 않은 중간 결과물이다. 확정 이미지는 각 캐릭터 시트의 체크리스트 경로를 따른다.

diff --git a/docs/pattern_on_fairy_plan.md b/docs/pattern_on_fairy_plan.md
@@ -78,7 +78,7 @@
 * 소모 재화: 장비 상자(100 Gold / 10연차 1,000 Gold), 페어리 & 코스튬 소환(100 Gem / 10연차 1,000 Gem).
 * 천장 시스템: 50회 천장 (50연속 5성 미등장 시 50회차에 5성 100% 확정 지급).
 * 소환 확률 테이블:
-  * 5성 페어리 (10%): 카스미, 에이다, 시그리드 (각 3.33%)
+  * 5성 페어리 (10%): 카스미, 에이다, 비요른 (각 3.33%)
   * 5성 코스튬 (5%): 황혼의 대마법사, 심연의 처형자 (각 2.5%)
   * 4성 페어리 (72%): 록사나, 카밀라, 카탈리나, 아이아스, 에이린, 셰헤라자드, 알렉세이, 다온 (8인 각 9.0%)
   * 4성 코스튬 (13%): 숲의 순찰자, 견습 기사, 사막 방랑자, 별빛 학도 (각 3.25%)
@@ -207,7 +207,7 @@
 ### 5.1 5성 페어리 (3인)
 * 카스미 (보라 / 심연): 액티브 - 단일 적 즉사 (보스는 하트 2.0 고정 피해) / 패시브 - 오입력(Miss) 피해 최초 1회 완전 무효화.
 * 에이다 (황금 / 시간): 액티브 - 스테이지 타이머 즉시 +5.0초 / 패시브 - 엘리트 및 보스 등장 시 스테이지 타이머 +2.0초.
-* 시그리드 (진홍 / 화염): 액티브 - 5.0초간 일반 참격 추가 피해 +0.5 / 패시브 - 스킬 직후 첫 일반 참격 치명타 확률 100%.
+* 비요른 (진홍 / 화염): 액티브 - 5.0초간 일반 참격 추가 피해 +0.5 / 패시브 - 스킬 직후 첫 일반 참격 치명타 확률 100%.
 
 ### 5.2 4성 페어리 (8인)
 * 록사나 (분홍 / 관통): 액티브 - 하트 1.0 즉발 관통 피해 / 패시브 - 적 체력 50% 이하 시 플레이어 치명타 확률 +30%.
